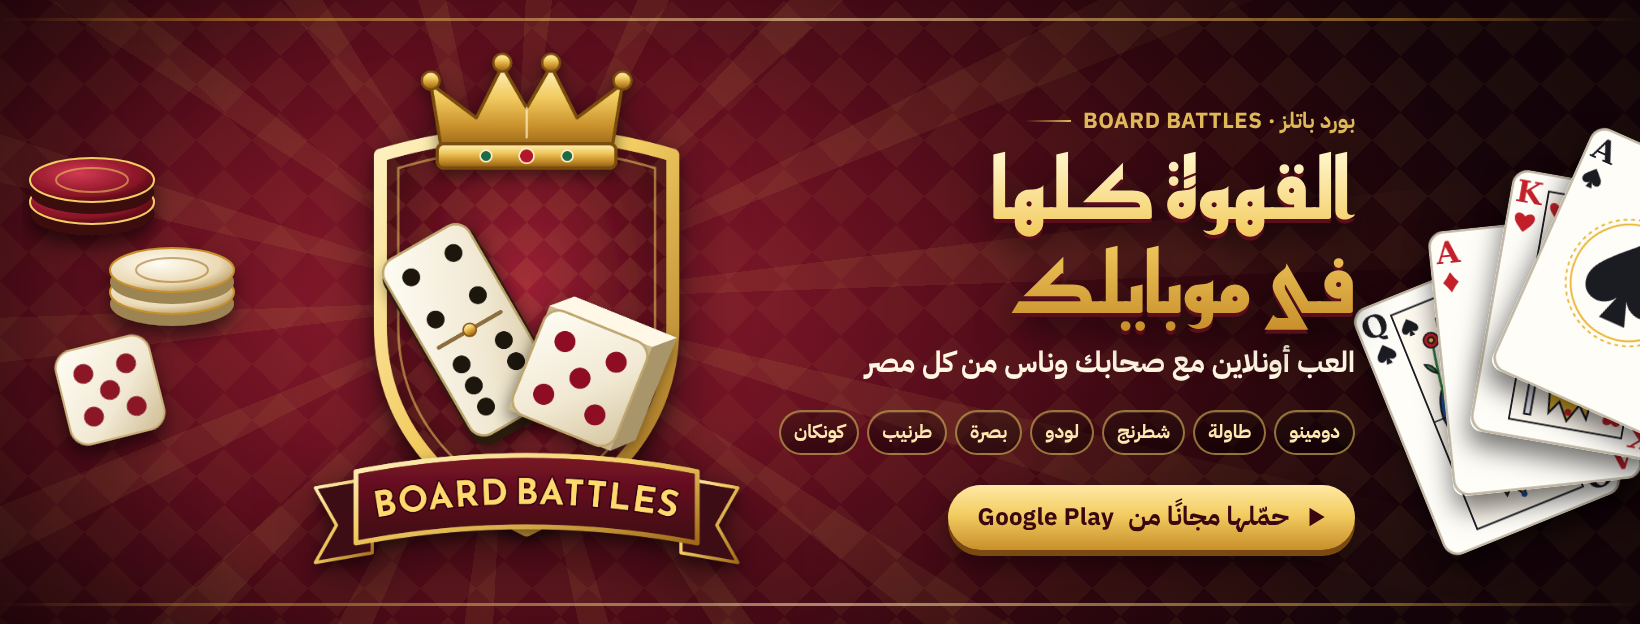
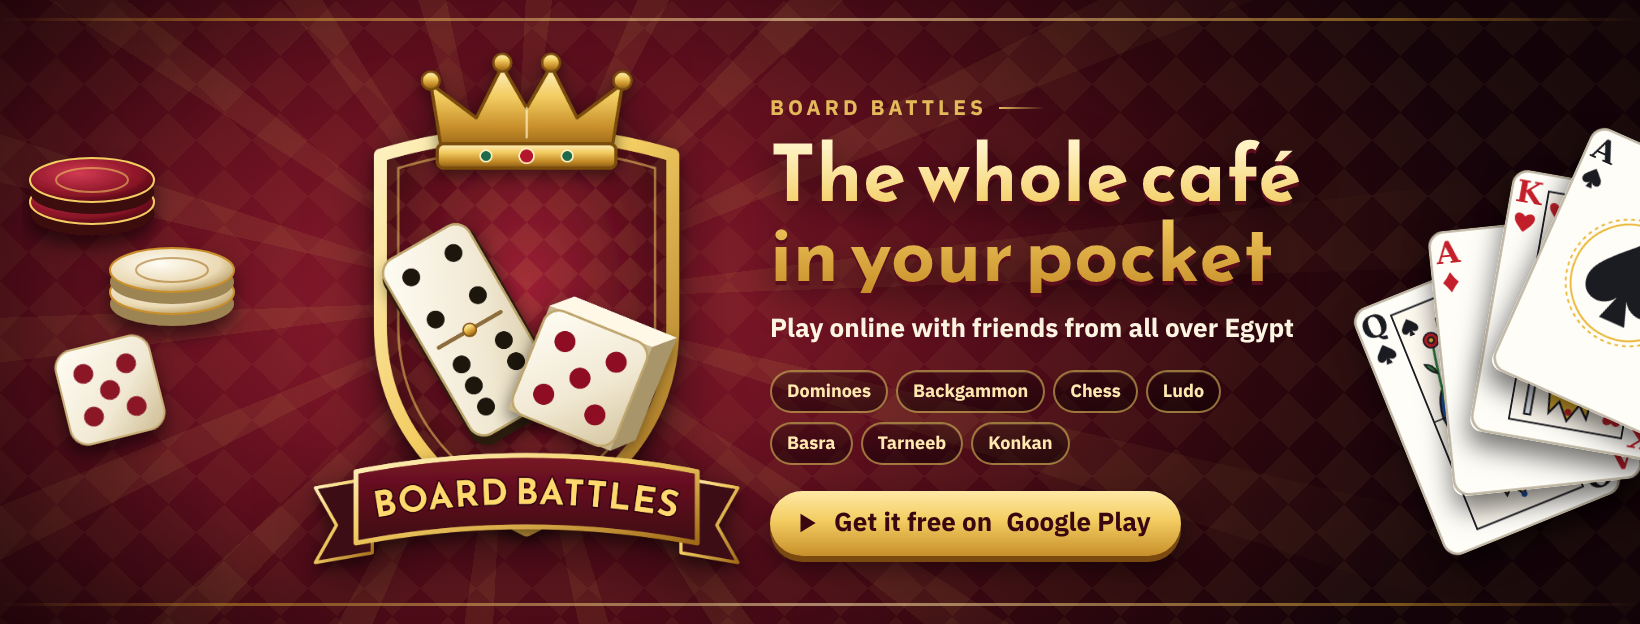
Social cover in English [skip ci]
Claude-Session: https://claude.ai/code/session_01QVeTZ1tVp82U1vPasV7ht9

Changed region(s): [[0.4665, 0.1827, 0.8396, 0.9135], [0.4665, 0.1522, 0.622, 0.1827]]

diff --git a/design/social/cover.html b/design/social/cover.html
@@ -1,4 +1,4 @@
-<!doctype html><html lang="ar"><head><meta charset="utf-8">
+<!doctype html><html lang="en"><head><meta charset="utf-8">
 <style>
 @font-face { font-family: Kufi; src: url(ReemKufi.ttf); font-weight: 400 800; }
 @font-face { font-family: Plex; src: url(PlexArabicBold.ttf); }
@@ -14,20 +14,20 @@ html,body{margin:0;background:#1c0609}
 .rule{position:absolute;left:0;right:0;height:3px;background:linear-gradient(90deg,transparent,#c88f2a 15%,#ffe9b0 50%,#c88f2a 85%,transparent)}
 .rule.t{top:18px;opacity:.55}.rule.b{bottom:18px;opacity:.55}
 .logo{position:absolute;left:300px;top:44px;height:540px;filter:drop-shadow(0 18px 30px rgba(0,0,0,.55))}
-.txt{position:absolute;right:285px;top:104px;width:640px;direction:rtl;text-align:right}
-.kick{font:700 22px Plex;color:#f3cd62;letter-spacing:.5px;opacity:.9;display:flex;gap:12px;align-items:center}
-.kick i{display:inline-block;width:46px;height:2px;background:linear-gradient(90deg,transparent,#f3cd62)}
-h1{margin:6px 0 0;font:700 84px/1.12 Kufi;
+.txt{position:absolute;left:770px;top:92px;width:600px;direction:ltr;text-align:left}
+.kick{font:700 21px Plex;color:#f3cd62;letter-spacing:4px;opacity:.9;display:flex;gap:12px;align-items:center}
+.kick i{display:inline-block;width:46px;height:2px;background:linear-gradient(90deg,#f3cd62,transparent)}
+h1{margin:10px 0 0;font:700 78px/1.02 Kufi;letter-spacing:.5px;
   background:linear-gradient(180deg,#fff3c4 8%,#f3cd62 48%,#c88f2a 100%);-webkit-background-clip:text;background-clip:text;color:transparent;
   filter:drop-shadow(0 4px 0 #5a0d1b) drop-shadow(0 10px 18px rgba(0,0,0,.55))}
-.sub{margin:10px 0 0;font:700 29px Plex;color:#fff7e3}
-.chips{margin-top:26px;display:flex;gap:8px;width:640px;justify-content:flex-start}
-.chips span{font:700 19px Plex;color:#ffe9b0;padding:5px 13px 7px;border-radius:30px;
+.sub{margin:16px 0 0;font:700 26px Plex;white-space:nowrap;color:#fff7e3}
+.chips{margin-top:22px;display:flex;flex-wrap:wrap;gap:9px 8px;width:480px;justify-content:flex-start}
+.chips span{font:700 18px Plex;color:#ffe9b0;padding:5px 15px 7px;border-radius:30px;
   background:linear-gradient(180deg,rgba(0,0,0,.25),rgba(0,0,0,.45));border:2px solid rgba(243,205,98,.55);box-shadow:inset 0 1px 0 rgba(255,233,176,.15)}
-.cta{margin-top:30px;display:inline-flex;align-items:center;gap:14px;padding:12px 26px 14px 30px;border-radius:40px;
+.cta{margin-top:26px;display:inline-flex;align-items:center;gap:14px;padding:12px 30px 14px 24px;border-radius:40px;
   background:linear-gradient(180deg,#ffe9a6,#f3cd62 45%,#c88f2a);color:#3a0711;font:700 26px Plex;
   box-shadow:0 6px 0 #7a4a10,0 14px 26px rgba(0,0,0,.45)}
-.cta b{font:800 24px Plex;direction:ltr;letter-spacing:.3px}
+.cta b{font:800 26px Plex}
 .cta svg{width:26px;height:26px}
 .card{position:absolute;width:190px;border-radius:12px;box-shadow:0 14px 26px rgba(0,0,0,.55)}
 .deco{position:absolute}
@@ -71,10 +71,10 @@ h1{margin:6px 0 0;font:700 84px/1.12 Kufi;
 <img class="logo" src="logo-crop.png">
 
 <div class="txt">
-  <div class="kick">بورد باتلز · BOARD BATTLES<i></i></div>
-  <h1>القهوة كلها<br>في موبايلك</h1>
-  <div class="sub">العب أونلاين مع صحابك وناس من كل مصر</div>
-  <div class="chips"><span>دومينو</span><span>طاولة</span><span>شطرنج</span><span>لودو</span><span>بصرة</span><span>طرنيب</span><span>كونكان</span></div>
-  <div class="cta"><svg viewBox="0 0 24 24"><path d="M6 3.5v17l14-8.5z" fill="#3a0711"/></svg>حمّلها مجانًا من <b>Google Play</b></div>
+  <div class="kick">BOARD BATTLES<i></i></div>
+  <h1>The whole café<br>in your pocket</h1>
+  <div class="sub">Play online with friends from all over Egypt</div>
+  <div class="chips"><span>Dominoes</span><span>Backgammon</span><span>Chess</span><span>Ludo</span><span>Basra</span><span>Tarneeb</span><span>Konkan</span></div>
+  <div class="cta"><svg viewBox="0 0 24 24"><path d="M6 3.5v17l14-8.5z" fill="#3a0711"/></svg>Get it free on <b>Google Play</b></div>
 </div>
 </div></body></html>
